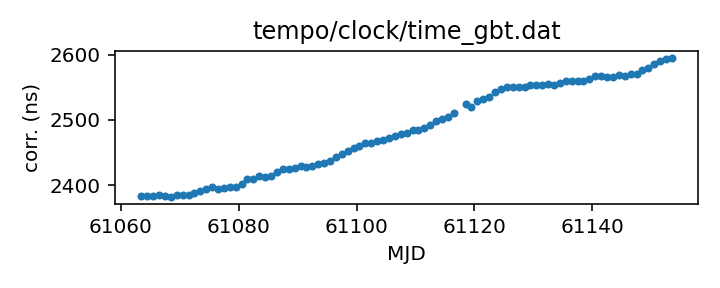
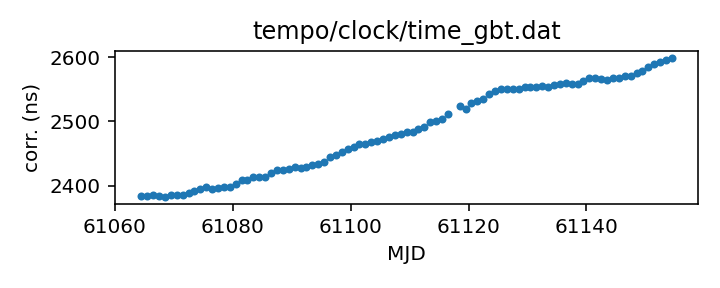
Routine gh-pages update from Github action Sat Apr 25 21:04:40 UTC 2026

diff --git a/status.md b/status.md
@@ -13,18 +13,18 @@ name of each clock file links to a page with more details.
 
 | Name | File | Corrections start | Corrections end | Last check date | Last check result 
 |:--- |:--- | --- | --- | --- |:--- 
-| [GPS to UTC](T2runtime/clock/gps2utc.clk.html) | `T2runtime/clock/gps2utc.clk` | 1993-01-01 MJD 48988.0 | 2026-03-30 MJD 61129.0 | 2026-04-24 | Unchanged 
-| [GPS to UTC (Combined Clock)](T2runtime/clock/gps2utc_cc.clk.html) | `T2runtime/clock/gps2utc_cc.clk` | 1993-01-01 MJD 48988.0 | 2026-03-30 MJD 61129.0 | 2026-04-24 | Unchanged 
-| [GPS to UTC (Corrected)](T2runtime/clock/gps2utc_c0p.clk.html) | `T2runtime/clock/gps2utc_c0p.clk` | 2010-12-29 MJD 55559.0 | 2026-03-30 MJD 61129.0 | 2026-04-24 | Unchanged 
-| [GBT](tempo/clock/time_gbt.dat.html) | `tempo/clock/time_gbt.dat` | 2000-12-31 MJD 51909.5 | 2026-04-23 MJD 61153.5 | 2026-04-24 | Updated 
-| [GBT (TEMPO2 converted from TEMPO)](T2runtime/clock/gbt2gps.clk.html) | `T2runtime/clock/gbt2gps.clk` | 2000-12-31 MJD 51909.5 | 2024-05-18 MJD 60448.5 | 2026-04-24 | **Validation failed** 
+| [GPS to UTC](T2runtime/clock/gps2utc.clk.html) | `T2runtime/clock/gps2utc.clk` | 1993-01-01 MJD 48988.0 | 2026-03-30 MJD 61129.0 | 2026-04-25 | Unchanged 
+| [GPS to UTC (Combined Clock)](T2runtime/clock/gps2utc_cc.clk.html) | `T2runtime/clock/gps2utc_cc.clk` | 1993-01-01 MJD 48988.0 | 2026-03-30 MJD 61129.0 | 2026-04-25 | Unchanged 
+| [GPS to UTC (Corrected)](T2runtime/clock/gps2utc_c0p.clk.html) | `T2runtime/clock/gps2utc_c0p.clk` | 2010-12-29 MJD 55559.0 | 2026-03-30 MJD 61129.0 | 2026-04-25 | Unchanged 
+| [GBT](tempo/clock/time_gbt.dat.html) | `tempo/clock/time_gbt.dat` | 2000-12-31 MJD 51909.5 | 2026-04-24 MJD 61154.5 | 2026-04-25 | Updated 
+| [GBT (TEMPO2 converted from TEMPO)](T2runtime/clock/gbt2gps.clk.html) | `T2runtime/clock/gbt2gps.clk` | 2000-12-31 MJD 51909.5 | 2024-05-18 MJD 60448.5 | 2026-04-25 | **Validation failed** 
 | [Jodrell Bank](T2runtime/clock/jb2gps.clk.html) | `T2runtime/clock/jb2gps.clk` | 2006-10-13 MJD 54021.4 | 2026-04-17 MJD 61147.0 | 2026-04-20 | Updated 
 | [Jodrell Bank Roach](T2runtime/clock/jbroach2jb.clk.html) | `T2runtime/clock/jbroach2jb.clk` | 2006-10-13 MJD 54021.4 | 2018-03-20 MJD 58197.6 | 2026-04-24 | Unchanged 
 | [Jodrell Bank DFB](T2runtime/clock/jbdfb2jb.clk.html) | `T2runtime/clock/jbdfb2jb.clk` | 2006-10-13 MJD 54021.4 | 2021-02-22 MJD 59268.0 | 2026-04-24 | Unchanged 
 | [Meerkat (observatory)](T2runtime/clock/mk2utc_observatory.clk.html) | `T2runtime/clock/mk2utc_observatory.clk` | 2019-01-01 MJD 58484.0 | 2026-04-10 MJD 61141.0 | 2026-04-24 | **Validation failed** 
-| [Leap seconds](tempo/clock/leap.sec.html) | `tempo/clock/leap.sec` | 1972-07-01 MJD 41499.0 | 2017-01-01 MJD 57754.0 | 2026-04-24 | Unchanged 
-| [UT1 table](tempo/clock/ut1.dat.html) | `tempo/clock/ut1.dat` | 1973-01-02 MJD 41684.0 | 2027-05-01 MJD 61526.0 | 2026-04-24 | Unchanged 
-| [UT1 table](T2runtime/clock/ut1.dat.html) | `T2runtime/clock/ut1.dat` | 1973-01-02 MJD 41684.0 | 2027-05-01 MJD 61526.0 | 2026-04-24 | Unchanged 
+| [Leap seconds](tempo/clock/leap.sec.html) | `tempo/clock/leap.sec` | 1972-07-01 MJD 41499.0 | 2017-01-01 MJD 57754.0 | 2026-04-25 | Unchanged 
+| [UT1 table](tempo/clock/ut1.dat.html) | `tempo/clock/ut1.dat` | 1973-01-02 MJD 41684.0 | 2027-05-01 MJD 61526.0 | 2026-04-25 | Unchanged 
+| [UT1 table](T2runtime/clock/ut1.dat.html) | `T2runtime/clock/ut1.dat` | 1973-01-02 MJD 41684.0 | 2027-05-01 MJD 61526.0 | 2026-04-25 | Unchanged 
 
 
 

diff --git a/T2runtime/clock/gbt2gps.clk.md b/T2runtime/clock/gbt2gps.clk.md
@@ -25,12 +25,11 @@ If questions arise about the conversion, contact Anne Archibald
 | Clock file start | 2000-12-31 MJD 51909.5 |
 | Clock file end | 2024-05-18 MJD 60448.5 |
 | Update interval (days) | 1 |
-| Last update attempt | 2026-04-24 |
+| Last update attempt | 2026-04-25 |
 | Last update result | Validation failed |
 
 Log entries from the last few update attempts:
 ```
-2026-04-15 21:13:51.623 - Validation failed: New version of T2runtime/clock/gbt2gps.clk clock corrections differ from old version where they overlap in 11 places
 2026-04-16 21:10:18.745 - Validation failed: New version of T2runtime/clock/gbt2gps.clk clock corrections differ from old version where they overlap in 11 places
 2026-04-17 21:10:21.965 - Validation failed: New version of T2runtime/clock/gbt2gps.clk clock corrections differ from old version where they overlap in 11 places
 2026-04-18 21:02:03.507 - Validation failed: New version of T2runtime/clock/gbt2gps.clk clock corrections differ from old version where they overlap in 11 places
@@ -40,6 +39,7 @@ Log entries from the last few update attempts:
 2026-04-22 21:16:14.639 - Validation failed: New version of T2runtime/clock/gbt2gps.clk clock corrections differ from old version where they overlap in 11 places
 2026-04-23 21:14:47.647 - Validation failed: New version of T2runtime/clock/gbt2gps.clk clock corrections differ from old version where they overlap in 11 places
 2026-04-24 21:13:35.940 - Validation failed: New version of T2runtime/clock/gbt2gps.clk clock corrections differ from old version where they overlap in 11 places
+2026-04-25 21:04:17.504 - Validation failed: New version of T2runtime/clock/gbt2gps.clk clock corrections differ from old version where they overlap in 11 places
 ```
 [Full log](https://raw.githubusercontent.com/ipta/pulsar-clock-corrections/main/log/T2runtime/clock/gbt2gps.clk.log)
 

diff --git a/tempo/clock/time_gbt.dat.md b/tempo/clock/time_gbt.dat.md
@@ -36,14 +36,13 @@ If questions arise, contact Ryan S. Lynch <rlynch@nrao.edu>.
 | Format | tempo |
 | Bogus last correction | False |
 | Clock file start | 2000-12-31 MJD 51909.5 |
-| Clock file end | 2026-04-23 MJD 61153.5 |
+| Clock file end | 2026-04-24 MJD 61154.5 |
 | Update interval (days) | 1 |
-| Last update attempt | 2026-04-24 |
+| Last update attempt | 2026-04-25 |
 | Last update result | Updated |
 
 Log entries from the last few update attempts:
 ```
-2026-04-15 21:13:51.548 - Updated
 2026-04-16 21:10:18.680 - Updated
 2026-04-17 21:10:21.347 - Updated
 2026-04-18 21:02:03.430 - Updated
@@ -53,6 +52,7 @@ Log entries from the last few update attempts:
 2026-04-22 21:16:14.560 - Updated
 2026-04-23 21:14:47.580 - Updated
 2026-04-24 21:13:35.402 - Updated
+2026-04-25 21:04:17.431 - Updated
 ```
 [Full log](https://raw.githubusercontent.com/ipta/pulsar-clock-corrections/main/log/tempo/clock/time_gbt.dat.log)
 

diff --git a/T2runtime/clock/gps2utc_c0p.clk.md b/T2runtime/clock/gps2utc_c0p.clk.md
@@ -30,12 +30,11 @@ about the BIPM's published corrections, contact <tai@bipm.org>.
 | Clock file start | 2010-12-29 MJD 55559.0 |
 | Clock file end | 2026-03-30 MJD 61129.0 |
 | Update interval (days) | 1 |
-| Last update attempt | 2026-04-24 |
+| Last update attempt | 2026-04-25 |
 | Last update result | Unchanged |
 
 Log entries from the last few update attempts:
 ```
-2026-04-15 21:13:50.984 - Unchanged
 2026-04-16 21:10:18.195 - Unchanged
 2026-04-17 21:10:20.417 - Unchanged
 2026-04-18 21:02:02.932 - Unchanged
@@ -45,6 +44,7 @@ Log entries from the last few update attempts:
 2026-04-22 21:16:14.010 - Unchanged
 2026-04-23 21:14:47.135 - Unchanged
 2026-04-24 21:13:34.391 - Unchanged
+2026-04-25 21:04:16.796 - Unchanged
 ```
 [Full log](https://raw.githubusercontent.com/ipta/pulsar-clock-corrections/main/log/T2runtime/clock/gps2utc_c0p.clk.log)
 

diff --git a/T2runtime/clock/gps2utc_cc.clk.md b/T2runtime/clock/gps2utc_cc.clk.md
@@ -29,12 +29,11 @@ about the BIPM's published corrections, contact <tai@bipm.org>.
 | Clock file start | 1993-01-01 MJD 48988.0 |
 | Clock file end | 2026-03-30 MJD 61129.0 |
 | Update interval (days) | 1 |
-| Last update attempt | 2026-04-24 |
+| Last update attempt | 2026-04-25 |
 | Last update result | Unchanged |
 
 Log entries from the last few update attempts:
 ```
-2026-04-15 21:13:50.976 - Unchanged
 2026-04-16 21:10:18.188 - Unchanged
 2026-04-17 21:10:20.409 - Unchanged
 2026-04-18 21:02:02.924 - Unchanged
@@ -44,6 +43,7 @@ Log entries from the last few update attempts:
 2026-04-22 21:16:14.001 - Unchanged
 2026-04-23 21:14:47.127 - Unchanged
 2026-04-24 21:13:34.385 - Unchanged
+2026-04-25 21:04:16.787 - Unchanged
 ```
 [Full log](https://raw.githubusercontent.com/ipta/pulsar-clock-corrections/main/log/T2runtime/clock/gps2utc_cc.clk.log)
 

diff --git a/T2runtime/clock/gps2utc.clk.md b/T2runtime/clock/gps2utc.clk.md
@@ -32,12 +32,11 @@ about the BIPM's published corrections, contact <tai@bipm.org>.
 | Clock file start | 1993-01-01 MJD 48988.0 |
 | Clock file end | 2026-03-30 MJD 61129.0 |
 | Update interval (days) | 1 |
-| Last update attempt | 2026-04-24 |
+| Last update attempt | 2026-04-25 |
 | Last update result | Unchanged |
 
 Log entries from the last few update attempts:
 ```
-2026-04-15 21:13:50.954 - Unchanged
 2026-04-16 21:10:18.167 - Unchanged
 2026-04-17 21:10:20.387 - Unchanged
 2026-04-18 21:02:02.902 - Unchanged
@@ -47,6 +46,7 @@ Log entries from the last few update attempts:
 2026-04-22 21:16:13.978 - Unchanged
 2026-04-23 21:14:47.106 - Unchanged
 2026-04-24 21:13:34.369 - Unchanged
+2026-04-25 21:04:16.763 - Unchanged
 ```
 [Full log](https://raw.githubusercontent.com/ipta/pulsar-clock-corrections/main/log/T2runtime/clock/gps2utc.clk.log)
 

diff --git a/tempo/clock/leap.sec.md b/tempo/clock/leap.sec.md
@@ -21,12 +21,11 @@ If there are any questions, contact Anne Archibald
 | File start | 1972-07-01 MJD 41499.0 |
 | File end | 2017-01-01 MJD 57754.0 |
 | Update interval (days) | 0 |
-| Last update attempt | 2026-04-24 |
+| Last update attempt | 2026-04-25 |
 | Last update result | Unchanged |
 
 Log entries from the last few update attempts:
 ```
-2026-04-15 21:13:51.648 - Unchanged
 2026-04-16 21:10:18.766 - Unchanged
 2026-04-17 21:12:23.853 - Unchanged
 2026-04-18 21:02:03.533 - Unchanged
@@ -36,5 +35,6 @@ Log entries from the last few update attempts:
 2026-04-22 21:16:14.666 - Unchanged
 2026-04-23 21:14:47.668 - Unchanged
 2026-04-24 21:13:58.081 - Unchanged
+2026-04-25 21:04:17.526 - Unchanged
 ```
 [Full log](https://raw.githubusercontent.com/ipta/pulsar-clock-corrections/main/log/tempo/clock/leap.sec.log)

diff --git a/T2runtime/clock/ut1.dat.md b/T2runtime/clock/ut1.dat.md
@@ -30,12 +30,11 @@ If there are any questions, contact Anne Archibald
 | File start | 1973-01-02 MJD 41684.0 |
 | File end | 2027-05-01 MJD 61526.0 |
 | Update interval (days) | 0 |
-| Last update attempt | 2026-04-24 |
+| Last update attempt | 2026-04-25 |
 | Last update result | Unchanged |
 
 Log entries from the last few update attempts:
 ```
-2026-04-15 21:13:59.589 - Unchanged
 2026-04-16 21:10:26.916 - Updated
 2026-04-17 21:12:35.936 - Unchanged
 2026-04-18 21:02:11.445 - Unchanged
@@ -45,5 +44,6 @@ Log entries from the last few update attempts:
 2026-04-22 21:16:23.353 - Unchanged
 2026-04-23 21:14:55.940 - Updated
 2026-04-24 21:14:09.361 - Unchanged
+2026-04-25 21:04:27.063 - Unchanged
 ```
 [Full log](https://raw.githubusercontent.com/ipta/pulsar-clock-corrections/main/log/T2runtime/clock/ut1.dat.log)

diff --git a/tempo/clock/ut1.dat.md b/tempo/clock/ut1.dat.md
@@ -30,12 +30,11 @@ If there are any questions, contact Anne Archibald
 | File start | 1973-01-02 MJD 41684.0 |
 | File end | 2027-05-01 MJD 61526.0 |
 | Update interval (days) | 0 |
-| Last update attempt | 2026-04-24 |
+| Last update attempt | 2026-04-25 |
 | Last update result | Unchanged |
 
 Log entries from the last few update attempts:
 ```
-2026-04-15 21:13:59.542 - Unchanged
 2026-04-16 21:10:26.874 - Updated
 2026-04-17 21:12:35.886 - Unchanged
 2026-04-18 21:02:11.395 - Unchanged
@@ -45,5 +44,6 @@ Log entries from the last few update attempts:
 2026-04-22 21:16:23.304 - Unchanged
 2026-04-23 21:14:55.897 - Updated
 2026-04-24 21:14:09.329 - Unchanged
+2026-04-25 21:04:27.020 - Unchanged
 ```
 [Full log](https://raw.githubusercontent.com/ipta/pulsar-clock-corrections/main/log/tempo/clock/ut1.dat.log)
